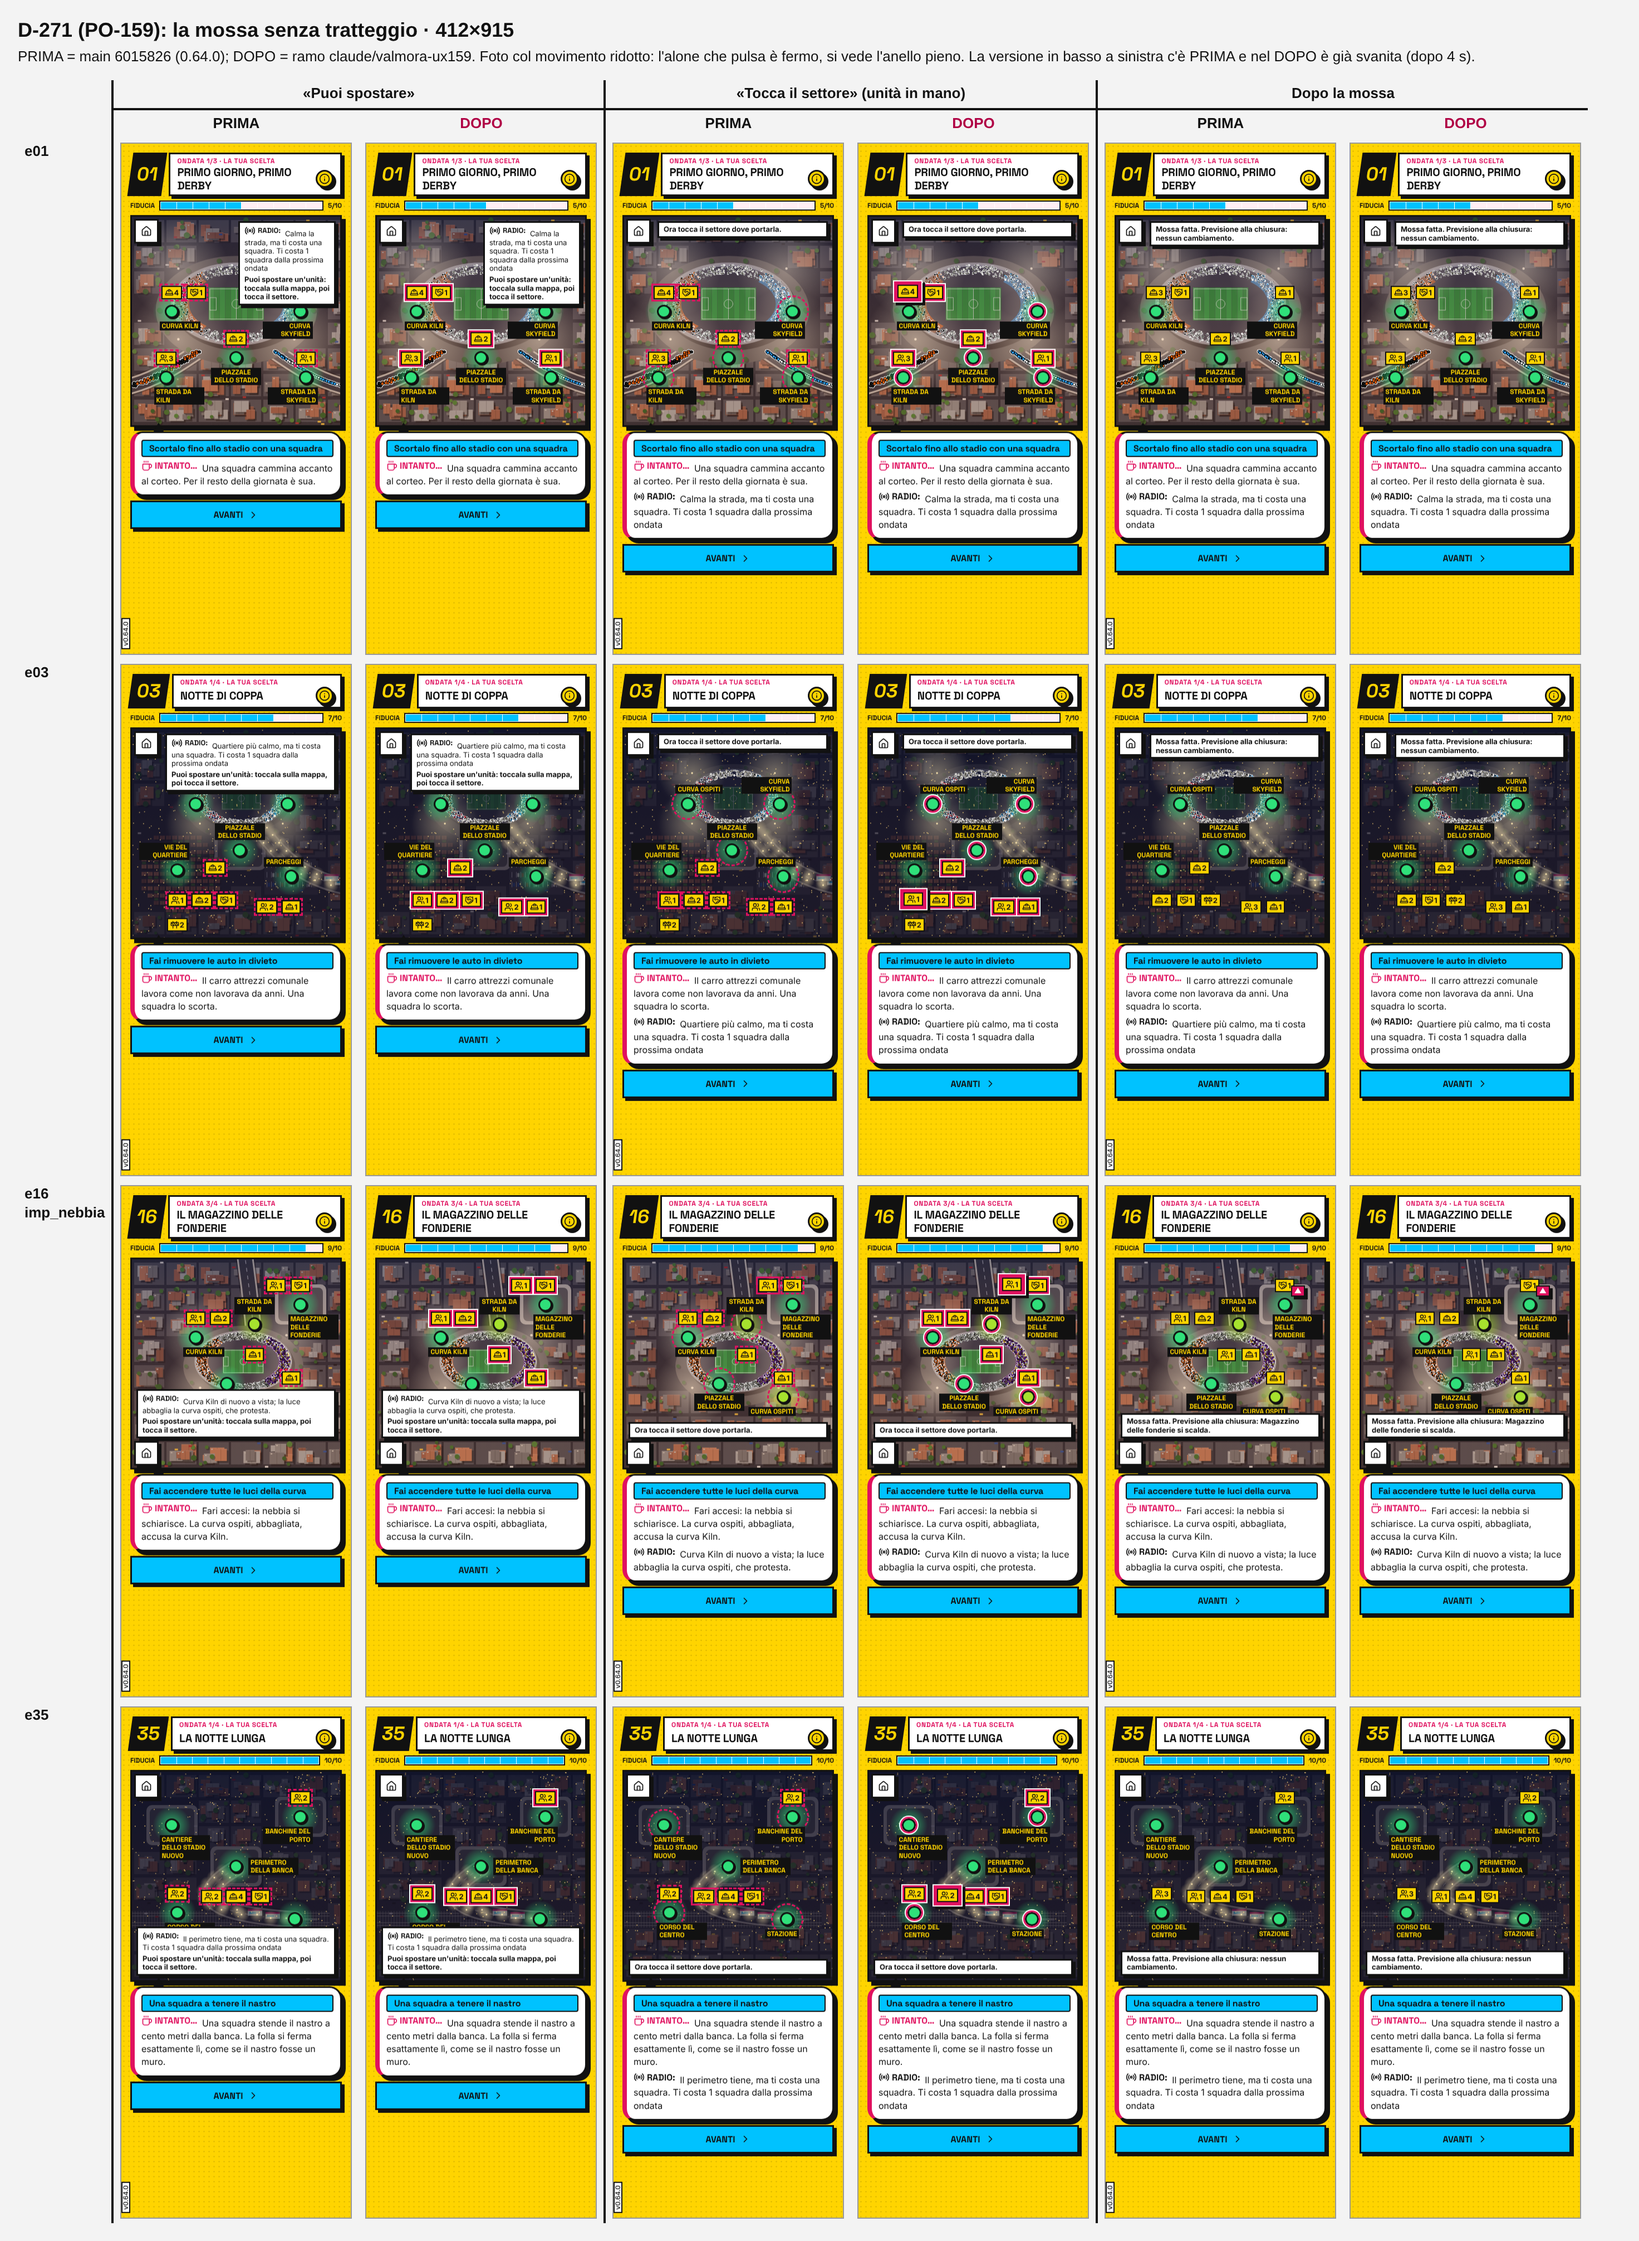
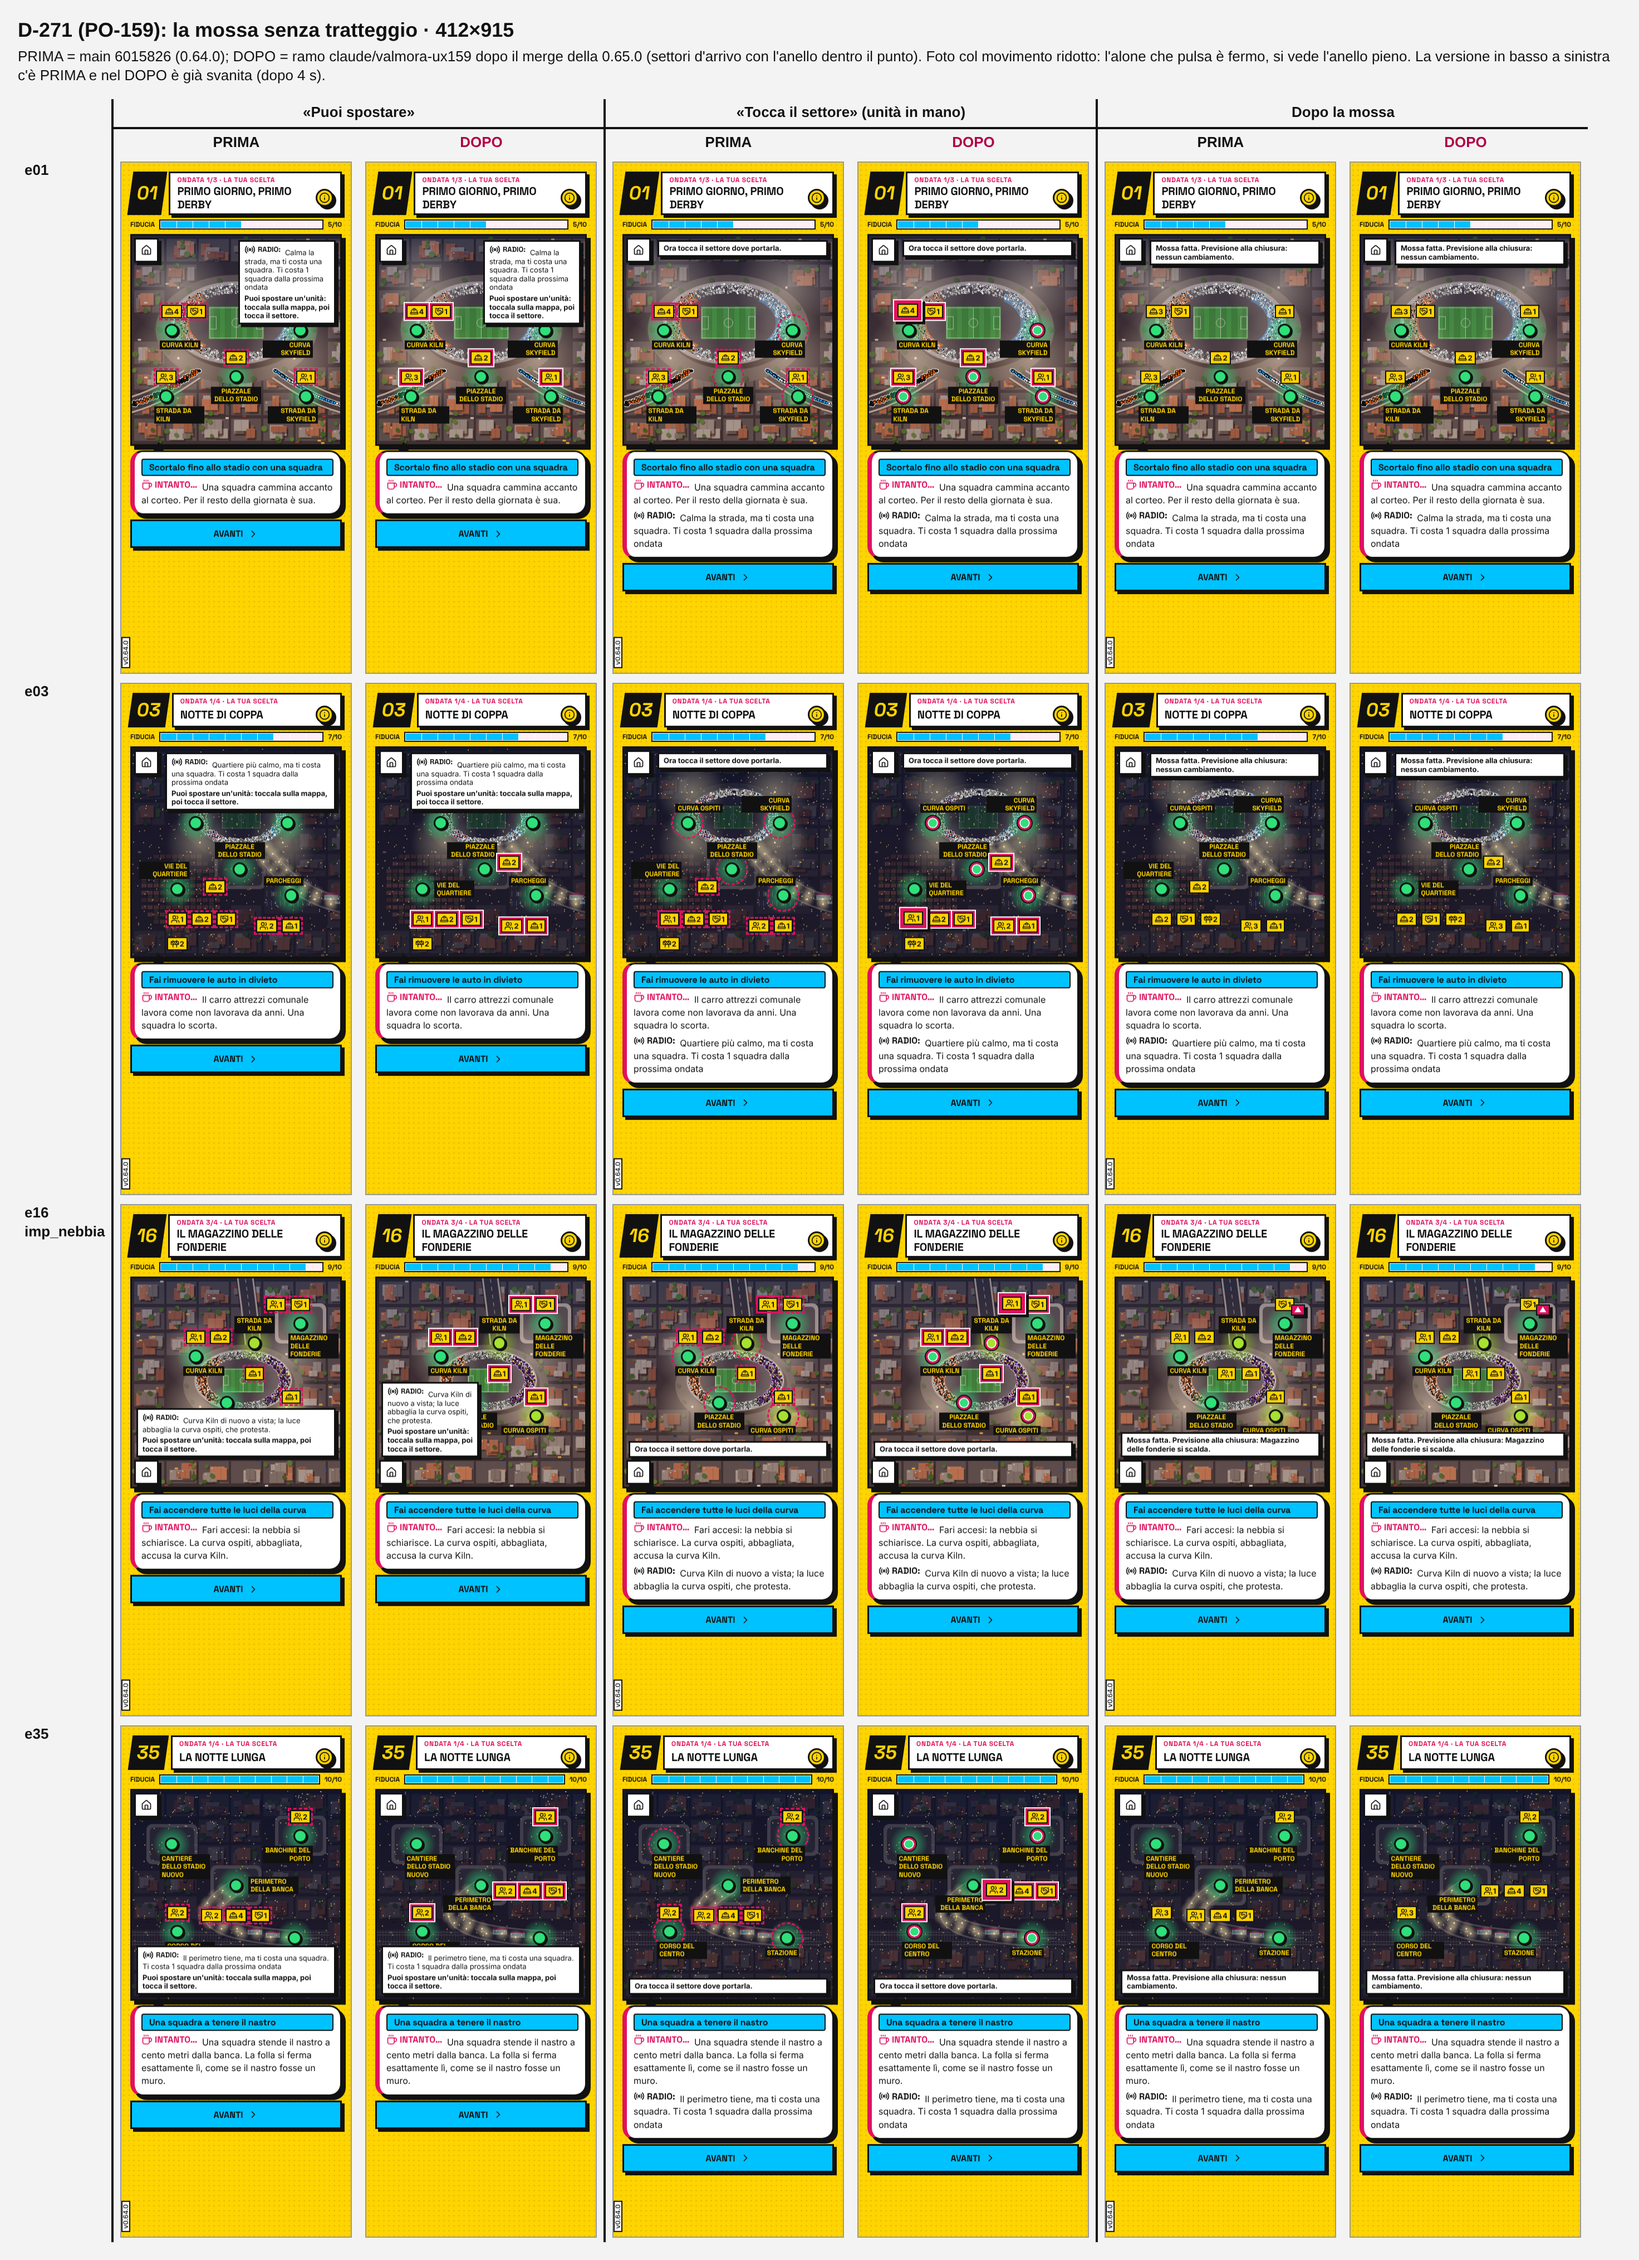
D-271-T2: misure sul merge della 0.65.0, provini DOPO col nuovo anello dei settori

diff --git a/docs/governo/DECISIONI.md b/docs/governo/DECISIONI.md
@@ -293,3 +293,4 @@ Nessuna.
 | D-257-S | 2026-11-02 | tecnica (S-26) | Caratteri tutti inclusi e resa uguale in CI | (a) Peso 500: prima si disegnava col file del 400 (stessa larghezza, 367,00 px sul campione); ora ha il suo file. (b) Solo woff2: dist 3 213 616 → 3 143 687 B (−69 929); file dei caratteri 8 (woff + woff2, 195 004 B) → 5 woff2 (109 584 B); CSS +6 549 B (simboli in linea), JS +60 B. (c) → ≤ ≥ ⋮ ▲ ▼ ★ ☆ ⚑ prima dal carattere di sistema; ora da 4 file «inter-simboli» (944–972 B per peso), fatti da tools/caratteri-simboli.py con Inter 4.1.1 (npm inter-ui, OFL 1.1, tarball sha256 e392e4d71f18a7c1f23dfecd833d68fa05eeab41862686584e80fd2b5d87e9c0); ⋮ e ⚑, che Inter non ha, disegnati da noi; Space Grotesk prende i simboli da Inter (token.css). Licenze in public/licenze/, riga in CREDITI.md. (d) Causa degli a capo diversi in CI (FATTO MISURATO): non l'assenza di Inter ma l'hinting. Chromium su Linux lo prende dal fontconfig di sistema: il container ha l'impostazione senza hinting (avanzamenti frazionari, campione «Pattuglia in Via Roma…» in Inter 400 a 15 px = 340,484 px); con il fontconfig di serie gli avanzamenti si arrotondano al pixel (340,000; «iii…» 159,8 → 176,0 px); RITIRO di una mia misura: avevo scritto che --font-render-hinting non cambia nulla; vale solo per il Chromium 1243 del container. La CI su 9dd63e8 è stata rossa proprio sul guardiano (340,000 a 360 e 412): la CI usa il «headless shell» v1248 di playwright-core 1.64.0, che accende l'hinting qualunque sia il fontconfig e lo spegne solo con --font-render-hinting=none (misurato col v1248 scaricato: 340,000 → 340,484; il Chromium completo 1243 e 1248 segue invece il fontconfig e ignora il flag). Correzione: tutti e due, fontconfig fisso tools/caratteri/fonts.conf (solo DejaVu e Liberation, niente hinting) e --font-render-hinting=none, messi da resaFissa() (tools/caratteri.mjs) per ogni Chromium delle catene, chiamata da tools/catena.mjs. Guardiano tools/caratteri.mjs (passo «caratteri» della grafica e della CI 360): file caricati ai 4 pesi, ogni carattere dei testi da un file incluso (CDP), home dai file inclusi, larghezza del campione 340,484 ± 0,01. Rosso C254F01 (file di Inter bloccati): 10 errori (4 controlli falsi, 112 caratteri da DejaVu, larghezza 299,641). Rosso C257H01 (hinting acceso nel fontconfig e nel Chromium): 340,000 sul Chromium 1243, sul 1248 e sul headless shell 1248; il guardiano misura con lo stesso lancio delle altre sonde: senza resaFissa, sul headless shell, è rosso. Sonda delle altezze dopo: 360x640 e 375x667 verdi, risposte 0 oltre soglia (massimo 66 e 54 px), 412x830 verde; soglie invariate. Resta da confermare: il controllo (d) verde sul runner di GitHub; il letter-spacing 0,15 px di D-252-S, nato per la resa con hinting della CI. CHIARITO il 2026-11-03 su 81cf87b1: non è mai stato nel gioco né negli strumenti; era solo una prova di misura, che ha fatto accorciare 53 testi (4191c837, solo data/testi). Non c'è niente da togliere. Sonda delle risposte con la resa delle catene (headless shell 1248 e resaFissa), 951 risposte: 360x640 0 oltre soglia, max 66, mediana 46, media 47,0 (dev 12,7); 375x667 0, max 54, mediana 34, media 31,2 (dev 13,7); 412x760 0, max 0. Con +0,15 px sul blocco della risposta: stessi massimi e mediane, medie 47,8 e 32,0, ancora 0 oltre soglia. Margine al massimo: 2 px a 360x640 e a 375x667. I 53 testi accorciati restano. | src/resa/caratteri.css; tools/caratteri.mjs; tools/caratteri/fonts.conf |
 | C56-01-T | 2026-11-03 | tecnica (S-27) | C56-01: il numero di squadre nel testo è quello dell'effetto | In 4 morsi il rapporto diceva «una squadra» con riserva squadre −2 (e02 secondo_treno/normale, anche nella variante secondo_treno_v; e26 fumogeni_finale/steward_fumogeni; e31 costruttore_saluta/manda_vice; e32 fumogeni_cinderwick/sospendi). Scelta dichiarata: si cambia il testo («due squadre»), non il valore, così il bilanciamento resta identico (nessun dato di missione toccato, niente da rimisurare). e28 due_piste: la risposta «Due piste, due squadre stanche» contraddiceva costo ed effetto (riserva −1): ora «Due piste aperte, una squadra in meno in riserva». Guardiano tests/numeri-morsi.test.ts: nei testi del costo (contro effetti) e del rapporto (contro effetti_dopo) ogni «una/due… squadre», «uno/due… steward», «un/due… mediatori» vale la somma della riserva; legge oggi 127 frasi di squadre e 85 di steward; gli articoli non contano («Il mediatore l'hai lasciato in tribuna», e26/e27, non è un costo; i 43 costi col mediatore dicono «il mediatore», senza numero). Rossi: coi rapporti di prima 5 segnalazioni su 4 episodi; «due mediatori» su un costo −1 segnalato. Le risposte restano fuori dal guardiano (racconto: «due le squadre» in e36 sono quelle in campo). | tests/numeri-morsi.test.ts |
 | D-271-T | 2026-11-04 | tecnica (S-27) | D-271: la mossa senza tratteggio, la versione che svanisce | (1) Mossa (src/resa/stile-idee.css, token in token.css): unità spostabili con anello magenta pieno attaccato al bordo della pastiglia e fascia bianca fuori, più un alone che pulsa piano (--anello-pulsa 1,8 s; fermo col movimento ridotto); con un'unità in mano pulsano solo i settori; l'unità in mano «sollevata» (anello doppio, ombra piena, spostata di 2 px, ferma); settori d'arrivo con lo stesso anello attorno al punto (non al quadrato da 44 px: non si sovrappongono); nessun tratteggio. L'anello confina solo con nero e bianco: misura sui pixel 3,97:1 e 4,76:1 (WCAG 1.4.11 ≥ 3:1) su qualunque mappa. Guardiano: tools/anelli-mossa.mjs nella sonda po152b (tratteggio, contrasto misurato su ogni lato visibile, anelli dei settori sovrapposti), in tutti gli stati della mossa dei 36 episodi; rosso C271T01 (il tratteggio di prima): tratteggio trovato e contrasti fino a 1,17:1. Prova a mano a 360×640 su e01, e16 imp_nebbia, e35: verde con minimo 3,97:1. (2) Versione (stile-schermate.css): fuori da Titolo e Crediti resta 4 s e svanisce in 0,8 s; col movimento ridotto sparisce di colpo; solo opacità, l'elemento resta. Non c'è una schermata Impostazioni. Guardiano: tools/versione-svanisce.mjs (parte «versione» di sonda-altezze, misura con getAnimations, non col tempo reale); rosso C271V01 (sempre visibile): «la versione non svanisce». I guardiani di prima vedono ancora il loro rosso con la build nuova: C38V01 (63 «manca il numero di versione»), C40C01 («non ha un fondino suo»), C90V01 («copre … contando l'ombra», «sul bordo» a 1366), C187V01 («sta sopra la scena che esce»); giro foto a 360 verde. (3) Provini PRIMA/DOPO a 360×640, 375×667, 412×915 in coordination/handoffs/sviluppatrice/ux159/ (foto-ux159.mjs, provini.mjs; foto col movimento ridotto). | src/resa/stile-idee.css; src/resa/stile-schermate.css; src/resa/token.css; src/resa/App.tsx; tools/anelli-mossa.mjs; tools/versione-svanisce.mjs; tools/foto-po152-b.mjs; tools/sonda-altezze.mjs; tools/passi-grafica.mjs |
+| D-271-T2 | 2026-11-05 | tecnica (S-27) | D-271 sul merge della 0.65.0: anello dei settori dentro il punto, unità fuori dalla mappa | Merge di main 925500f1 (0.65.0, D-269) in claude/valmora-ux159 (conflitti in foto-po152-b e passi-grafica: controlli D-269 e D-271 insieme, rossi C269 e C271). po152b sul merge: a 360 e 375 in e02 «ritardo» gli anelli di curva ospiti e viale della stazione si sovrapponevano di 5 px (punti a 5 px; e05 «sindacato» 1 px): l'anello dei settori d'arrivo ora sta dentro il punto (bordo magenta, fascia bianca dentro, filo nero fuori; sporge 2 px). Guardiano anelli: guarda anche la copia sotto la mappa; pastiglie tagliate dal bordo misurate sulla parte che si vede; un lato conta con almeno 2 pixel di anello (un pixel sfumato è un anello coperto da un nome, e20 viso_scoperto); soglia 3:1 invariata. Misura finale (d179fa5): 412 0 problemi, contrasto minimo 3,97:1; 360 e 375 solo unità disegnate FUORI dalla mappa, che non si vedono né si toccano: e04 arance squadre@mercato a 360 (x −26..11, mappa da 16; dentro su 0.64.0), e16 magazzino_sette steward e mediatore@magazzino a 360 e 375 (x 347..427, mappa fino a 344; già su 0.64.0). Il guardiano D-259 non le vede (l'elemento ha misure). Stati misurati con la copia sotto la mappa: 146 a 360, 117 a 375; con un'unità in mano 205 per larghezza. Rosso C271T01: 482 problemi. Provini DOPO rifatti. Correzione della posizione delle unità: da decidere (disposizione di S-11). | src/resa/stile-idee.css; tools/anelli-mossa.mjs; tools/foto-po152-b.mjs; tools/passi-grafica.mjs; coordination/handoffs/sviluppatrice/ux159/ |
